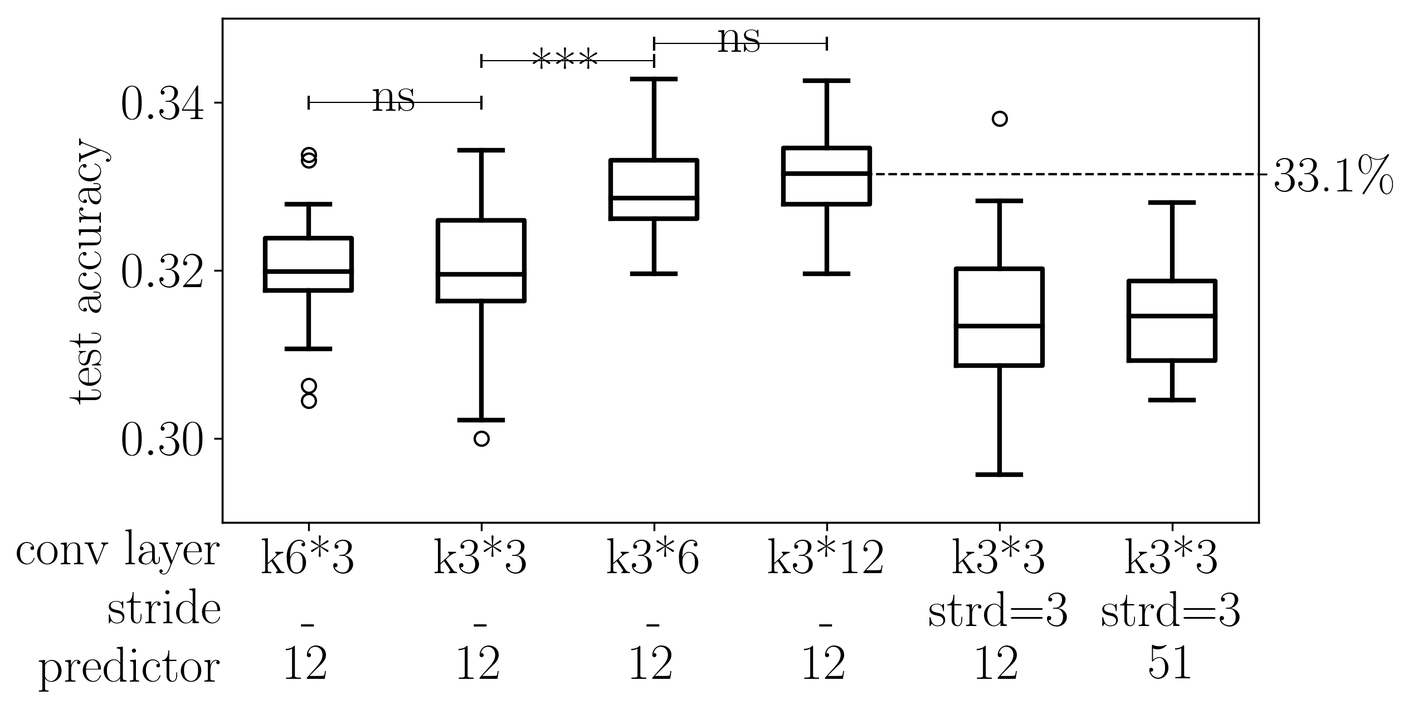
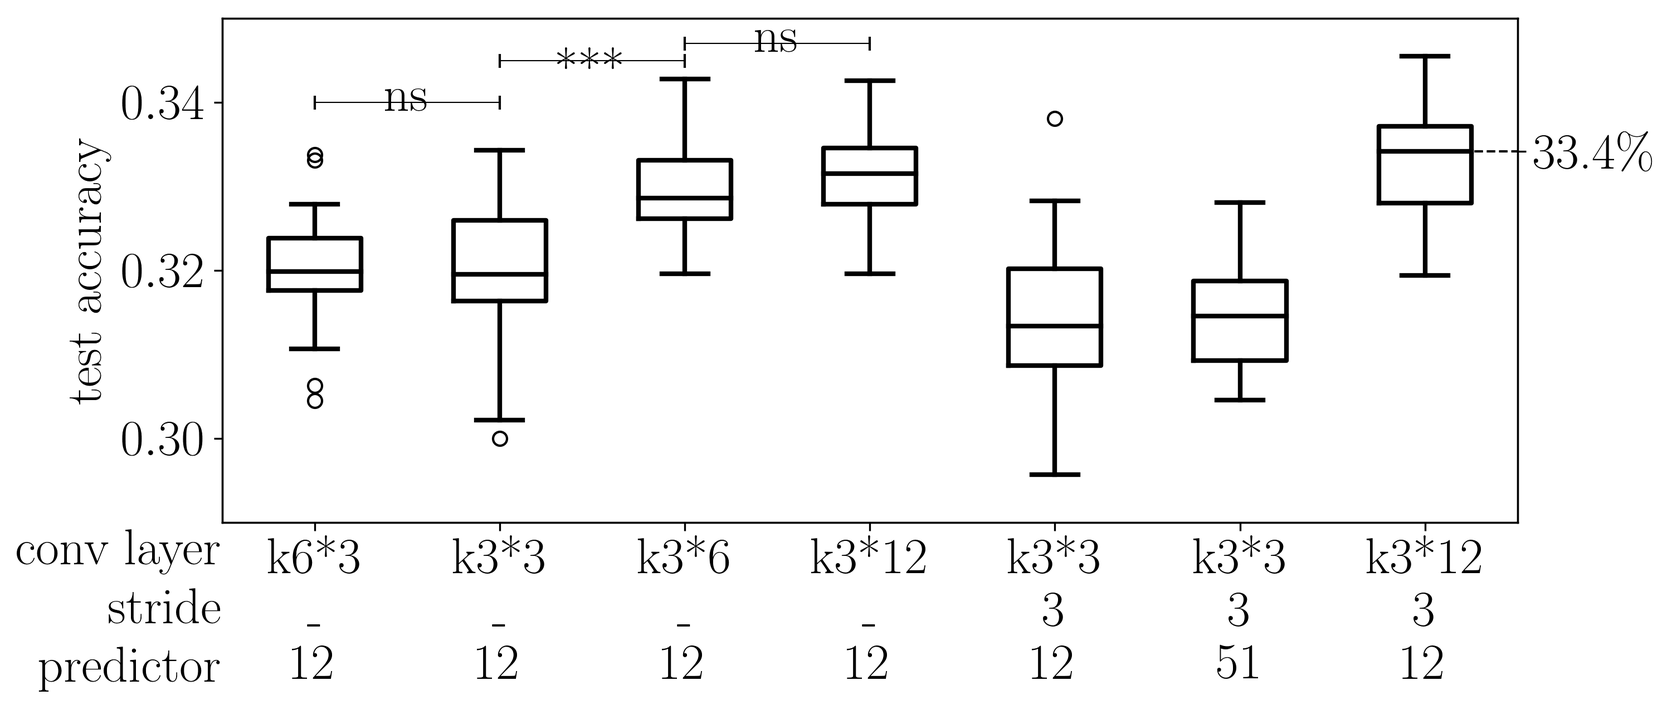
...

diff --git a/methods.tex b/methods.tex
@@ -21,14 +21,18 @@
 
 \subsection{Нейронные сети}
 
-В качестве функции активации использовалась функция softmax и ReLU (уравнение \ref{eq:softmax}).
+В качестве функции активации использовалась функция softmax и ReLU:
 \begin{align} \label{eq:softmax}
 \text{softmax}(X) &= exp(X - \max_{axis}(X)) \\
 \text{ReLU}(X) &= \max_{x_i \in X}(x_i, 0)
 \end{align}
+Также внутри рекуррентных слоев используются функции активации:
+\begin{align}
+	\sigma(X) &= \frac{1}{1+ e^{-X}}  \\
+	tanh(X) &= \frac{e^{X} - e^{-X}}{e^{X} + e^{-X}}
+\end{align}
 
-
-В нашем случае функцией потерь служила категориальная кроссэнтропия
+В нашем случае функцией потерь служила категориальная кроссэнтропия:
 \begin{equation} \label{eq:cross}
 \text{categorical\_crossentropy}(Y_{pred}, Y_{true}) = -\sum_{x}{Y_{pred}(X)\log(Y_{true}(X))}
 \end{equation}
@@ -38,23 +42,43 @@
 
 Для статистического сравнения точности сетей на наборе датасетов использовался критерий Манна-Уитни.
 
-В архитектурах нейронный сетей использовалось несколько типов слоев.
 \paragraph{Полносвязный слой}
-Каждый из k нейронов в полносвязном слое вычисляет сумму результатов поэлементного произведения вектора входных значений на вектор весов, что можно записать как:
+Каждый из j нейронов в полносвязном слое вычисляет сумму результатов поэлементного произведения вектора входных значений на вектор весов, что можно записать как:
 \begin{equation}
-	\text{fully_connected}(X)_{k} = X_{1\times L} \cdot W^k_{L\times 1} = x_1 w^k_1 +  \dots x_L w^k_L 
+	\text{fully_connected}(X)_{j} = X_{1\times L} \cdot W^j_{L\times 1} = x_1 w^j_1 +  \dots x_L w^j_L 
 \end{equation}
-где $L$ -- длина входного вектора, $X_{1\times L}$ -- входной вектор, $W^k_{L\times 1}$ -- вектор весов.
+где $L$ -- длина входного вектора, $X_{1\times L}$ -- входной вектор, $W^j_{L\times 1}$ -- вектор весов.
 
 \paragraph{Сверточный слой}
 
 Для работы с последовательностями была использована одномерная свертка. Слой состоит из нескольких нейронов, каждый со своей весовой матрицей. Каждый нейрон сканирует последовательность вдоль. Под размером нейрона мы понимаем длину скользящего окна. Формально, вычисляется следующее:
 \begin{equation}
-	\text{convolution}(X)_{ik} = \sum_{m=0}^{M-1}\sum_{n=0}^{N-1} W_{mn}^k X_{i+m, n}
+	\text{convolution}(X)_{oj} = \sum_{k=0}^{K-1}\sum_{c=0}^{C-1} W_{kc}^j X_{i+m, c}
 \end{equation}
-где $X$ -- это вход, $i$ -- индекс выходной позиции, $k$ -- номер нейрона в слое. Каждое сверточное ядро это матрица $W^k$ размером $M \times N$, где $M$ размер окна, $N$ число входных каналов (в случае первого слоя это 4, для слоев более высокого порядка число каналов определяется число нейронов в предыдущем слое).
-\paragraph{Рекуррентные слои} В наших архитектурах мы использовали одну вариацию рекуррентного слоя -- слой долгосрочной памяти (LSTM, long short-term memory). 
-  
+где $X$ -- это вход, $o$ -- индекс выходной позиции, $j$ -- номер нейрона в слое. Каждое сверточное ядро это матрица $W^j$ размером $K \times C$, где $K$ размер окна, $C$ число входных каналов (в случае первого слоя это 4, для слоев более высокого порядка число каналов определяется число нейронов в предыдущем слое).
+\paragraph{Рекуррентные слои} В наших архитектурах мы использовали одну вариацию рекуррентного слоя -- слой долгосрочной памяти (LSTM, long short-term memory)\cite{gers_learning_2006}. Схема показаны на рисунке \ref{fig:lstm}. Нейрон LSTM получает входные данные последовательно в каждый момент времени $\tr{x}{t}$. В каждый момент времени также генерируется выход $\tr{h}{t}$. Для генерации выхода также используются предыдущее скрытое состояние $\tr{h}{t-1}$ и предыдущее значение запоминающего состояния $\tr{c}{t-1}$. Внутри нейрона проводится четыре преобразования с разными активациями ($f_t, i_t, \tilde c_t, o_t$), каждое преобразование имеет две свои матрицы весов $W$ и $U$. Результаты этих преобразований комбинируются для получения значения запоминающего $\tr{c}{t}$ и скрытого состояния $\tr{h}{t}$.
+
+
+\begin{figure*}[h]
+	\centering
+	\begin{subfigure}[c]{0.5\textwidth}
+		\input{tables/lstm.tikz}
+	\end{subfigure}	
+	\begin{subfigure}[c]{0.45\textwidth}
+		\begin{align}
+	f_t = \sigma (\tr{x}{t} &\otimes U_f + \tr{h}{t-1} \otimes W_f)\\
+	\tilde c_t = tanh (\tr{x}{t} &\otimes U_c + \tr{h}{t-1} \otimes W_c)\\
+	i_t = \sigma (\tr{x}{t} &\otimes U_i + \tr{h}{t-1} \otimes W_i)\\
+	o_t = \sigma (\tr{x}{t} &\otimes U_o + \tr{h}{t-1} \otimes W_o)\\
+	c_t = f_t &\otimes c_{t-1} + i_t \otimes \tilde c_t \\
+	h_t = o_t &\otimes tanh(c_t)
+	\end{align}
+	\end{subfigure}
+	\caption{{\bfseries LSTM слой.} \\*
+	$\otimes$ - поэлементное умножение, $+$ - поэлементное сложение. }
+	\label{fig:lstm}
+\end{figure*}
+
 \subsubsection{Архитектура нейронных сетей}
 Все нейронные сети были реализованы с помощью библиотек Keras\cite{chollet_keras_2015} , TensorFlow.
 
@@ -68,28 +92,33 @@
 {\bfseries Сверточные модели} (CNN model 1 - рисунок \ref{fig:cnn_schemes}).
 Простейшая сверточная модель состоит из слоя сверточных нейронов (с функцией активации relu), который работает непосредственно с матрицей контекста, далее выход свертки уплощается в вектор и подается в слой из 4 решающих выходных полносвязных нейронов (с функцией активации softmax). Конфигурация сверточного слоя может быть различной. Мы исследовали комбинации из разного числа нейронов, с разным размером фильтра (kernel), которые обрабатывают контекст с различным шагом (stride, по умолчанию шаг сверточного фильтра равен 0).
 
-Были использованы следующие конфигурации сверточного слоя: \begin{enumerate}
-		\item (kernel = 3)*3, три сверточных фильтра размером 3
-		\item (kernel = 6)*3, три сверточных фильтра размером 6
-		\item (kernel = 3)*3 stride = 3, три сверточных фильтра размером 3, которые обрабатывают матрицу с шагом 3.
-	\end{enumerate}
+Варьировали параметры сверточного слоя: 
+\begin{enumerate}[noitemsep,topsep=0pt]
+		\item размер сверточного фильтра $n$, что обозначено как k$n$,
+		\item количество сверточных фильтров $m$, что обозначено как k$n$*$m$,
+		\item шаг применения сверточнго фильтра (stride). 
+			\end{enumerate}
+ 
  
 {\bfseries Рекуррентыне модели } (RNN model 1 - рисунок \ref{fig:rnn_scheme}) Рекуррентная модель состояла из одного LSTM (long short-term memory) слоя, который содержал разное число скрытых состояний, и выходного слоя полносвязных нейронов с функцией активации softmax. 
 
+{\bfseries Модели для двухстороннего контекста} отдельно обрабатывали контекста с каждой стороны, выход конкатенировался и подавался в решающий слой.
+
+Для сверточных моделей с двухсторонним контекстом: каждый контекст обрабатывался в сверточном слое с указанными параметрами, выходные векторы конкатенировались и подавались в решающий слой.
 
 
-\subsection{Deep Image Prior}
+\subsubsection{Deep Image Prior}
 Deep Image Prior --  нейронная сеть с архитектурой автоэнкодера с пробросочными соединениями, подробно описана в \cite{ulyanov_deep_2018}
 
 Данная архитектура была адаптирована для геномной последовательности, закодированной в виде one-hot-encoded матрицы соответственного размера $n\times 4$, где $n$ – длина обрабатываемой геномной области.
 В данной архитектуре двумерные функции свертки, пулинга, нормализации, апсемплинга были заменены на соответствующие одномерные аналоги.
 Суть подхода закллючается в следующем:
 
-\begin{enumerate}
+\begin{enumerate}[noitemsep,topsep=0pt]
 	\item Выбиралась геномная область длиной 500,000 нуклеотидов. Такой размер области позволял наиболее эффективно проводить расчеты.
 	\item На области случайно равномерно выбиралось  10\% нуклеотидов, которые далее предсказывались, которые обозначаются как тест или маска.
 	\item Нейронная сеть обучалась получать из случайно сгенерированного массива чисел целевую геномную последовательность. Функция потерь при этом не учитывала тестовые (маскированные) нуклеотиды.
-	\item Когда функция потерь достигала низких значений, обучение останавливалось. Проверялось, что же предсказывает модель на месте замаскированных нуклеотидов.
+	\item Когда функция потерь переставала уменьшаться, обучение останавливалось. Проверялось, что же предсказывает модель на месте замаскированных нуклеотидов.
 \end{enumerate} 
 
 

diff --git a/literature.tex b/literature.tex
@@ -7,20 +7,19 @@
 
 Искусственные нейронные сети показали себя как мощный инструмент машинного обучения и широко применяются во многих задачах.
 
-{\bfseries DeepBind} -- предсказание связывания белка с последовательностью \cite{alipanahi_predicting_2015}.
+{\bfseries Сверточные нейронные сети} были изначально разработаны для обработки изображений. Они учитывают информацию о пространственном расположении данных -- пикселей в картинке, нуклеотидов в последовательности.
 
+{\bfseries DeepBind} -- предсказание связывания белка с последовательностью \cite{alipanahi_predicting_2015}.
 В подходе DeepBind 927 отдельных моделей (среднее число параметров 1586) применялось для бинарного предсказания \emph{in vivo} и \emph{in vitro} афинностей связывания (то есть связывается или нет) для 538 транскрипционных факторов и 194 РНК-связывающихся белков.
 
 
 {\bfseries DeepSEA} -- предсказание влияния некодирующих вариантов \cite{zhou_predicting_2015}.
  В данной работе рассматривается функциональный эффект вариантов, в том числе однонуклеотидных полиморфизмов (SNP), в контексте геномного окружения. 
-
+ 
 На первой стадии сверточная нейронная сеть используется для предсказания 919 черт профиля хроматина из последовательности ДНК. Извлечение  информации происходит из нуклеотидного контекста размером 1000 пар нуклеотидов. Использовался контекст с обеих сторон, для каждой позиции результирующее предсказание вычислялось комбинацией. Предсказываются профили связывания транскрипционных факторов, сайты гиперчувствительности ДНКазы I, профили гистоновых меток. Далее предсказанная \emph{de novo} информация о хроматине используется в классификаторе на основе логистической регрессии для предсказания функционального эффекта.
-
 Для обучения сети были использованы объединенные данные ENCODE и Roadmap Epigenomics projects. Оказалось, что нейронная сеть превосходит в точности предсказания один из лучших в этой области метод gkm-SVM, основанный на k-мерах \cite{ghandi_enhanced_2014}.
 
 Нейронная сеть состоит из трех сверточных слоев, перемежающихся пулингом, полносвязного слоя и решающего слоя. В некоторых слоях использован dropout -- приравнивание заданной части выходных значений к нулю для избежания переобучения.
-
 Суммарное число параметров модели составляет около 52 миллионов.
 
 
@@ -30,26 +29,26 @@
 
 
 
-Одной из проблем сверточных нейроетей может быть невозможность в неглубокое архитектуре отловить дистантные взаимодействия. Одно из решений dilated convolution (прочитать)
-Basenji – Sequential regulatory activity prediction across chromosomes with convolutional neural networks [github1][github2][biorxiv]
-
-A follow-up project to Basset, this Tensorflow-based model uses both standard and dilated convolutions to model regulatory signals and gene expression (in the form of CAGE tag density) in many different cell types. Notably, the underlying model has been brought into Google's Tensor2Tensor repository (see "github2" link above), which collects many models in image and speech recognition, machine translation, text classification etc. However, at the time of writing the Tensor2Tensor model seems not quite mature for easy use, so it is probably better to use the dedicated Basenji repo ("github1") for now.
-
-рассказать про рекуррентные немного.
+Одной из проблем сверточных нейроетей может быть невозможность в неглубокой архитектуре отловить дистантные взаимодействия. Одно из решений dilated convolution (ПРОЧИТАТЬ)
 
 
-DanQ: гибридная сверточная и рекуррентная глубокая сеть для оценки функции последовательностей  ДНК \cite{quang_danq:_2016}. 
+{\bfseries Basenji} – предсказание регуляторной активности последовательности с помощью сверточный нейронных сетей в разных типах клеток \cite{kelley_sequential_2017}. 
+Продолжение Basset, эта модель использует обычное и dilated свертку для предсказания регуляторного сигнала и экспрессии генов (в форме плотности CAGE-тегов) во многих типах клеточных линий.
+
+
+В {\bfseries рекуррентных нейронных сетях}, точнее в рекуррентных слоях нейронов происходит последовательная передача информации между скрытыми состояниями. Рекуррентный слой прочитывает входную последовательность, а скрытые состояния линейно передаю друг другу информацию.
+Такой поток информации внутри слоя помогает улавливать дальние взаимодействия между мотивами.
+Вычисления в рекуррентных слоях невозможно распараллелить по определению, поэтому такие нейронные сети обучаются очень долго. Тем не менее такие сети используются.
+
+{\bfseries DanQ}: гибридная сверточная и рекуррентная глубокая сеть для оценки функции последовательностей  ДНК \cite{quang_danq:_2016}. 
 Разработана для предсказания функции некодирующих ДНК из их последовательностей. Опирается на те же данные, что и DeepSEA.
-
 Первые слои сети распознают и захватывают паттерны в последовательности -- сверточный слой и пулинг. После этого рекуррентный двунаправленный слой может улавливать далекие взаимодействия, которые обусловлены физическим ограничениями на взаимодействия частей ДНК из-за укладки хроматина. Содержит полносвязный и решающий слои нейронов.
-
 DanQ превосходит DeepSEA по многим метрикам, представленным в статье. В этой нейронной сети впервые представлена архитектура, включающая сверточные и рекуррентные слои.
 
+{\bfseries Механизм внимания}, предложенный два года назад разработчиками из Google, помог значительно улучшить качество машинного перевода \cite{vaswani_attention_2017}. Механизм внимания -- надстройка на рекурретным слоем, позволяющая больше акцентировать важные дистантные взаимодействия слов в предложении. Трансформер -- архитектура нейронной сети, автоэнкодер, в котором был представлен механизм внимания. Трансформер состоит из модулей из сверточных и рекуррентных слоев,
 
-Внимание.
 
-Modeling Enhancer-Promoter Interactions with Attention-Based Neural Networks [bioRxiv preprint][code]
-
-The concept of attention in (recurrent) neural networks has become quite popular recently, not least because it has been used to great effect in machine translation models. This paper proposes an attention-based model for getting at the interactions between enhancer sequences and promoter sequences.
+{\bfseries EPIANN } --  моделирование энхансер-промоторных взаимодействий с использованием механизма внимания \cite{mao_modeling_2017}.
+ОНИ СРАВНИВАЮТ С targetfinder, который использует неправильные данные!!!
 
 

diff --git a/introduction.tex b/introduction.tex
@@ -1,19 +1,17 @@
 \section{Введение}
 
 С появлением первых секвенированных последовательностей генов и геномов появились попытки описать эти последовательности с помощью математических моделей.
-
 Одни из первых моделей опирались на известные тогда вирусные геномы -- стационарная \cite{garden_markov_1980}, нестационарная Марковская модели \cite{tavare_codon_1989}, скрытые Марковский модели \cite{churchill_stochastic_1989}. 
 Давно стало известно, что геномы про- и эукариот неравновесны по вхождениям ди-, три-, тетрануклеотидных последовательностей -- в общем случае k-меров \cite{phillips_mono-_1987}. 
-
 Тем не менее, описать общую структуру генома, не вдаваясь в конкретные последовательности генов и мотивов, до сих пор не удалось.
 
-В настоящее время объем геномных данных огромен. Это не облегчает задачу. Машинное обучение. Классические методы машинного обучения нуждаются в ручном выборе характеристик для обучения. Нейросети придуманы так, что распознавание нужных характеристик встроено в процесс обучения.
+В настоящее время объем геномных данных огромен. Для выявления зависимостей в огромных количествах данных применяют машинное обучение. Классические методы машинного обучения нуждаются в ручном выборе характеристик, которые затем используются для предсказания. Процесс такого выбора в каждой новой задаче должен осуществляться человеком, и не всегда правильные характеристики будут замечены.
 
+Нейронные сети созданы так, что распознавание нужных характеристик встроено в процесс обучения. Это помогает выявлять сложные и комплексные зависимости.
 Взрыву использования нейронных сетей и глубокого обучения способствовал стремительный рост количества данных, появление новых алгоритмов расчетов и существенное увеличение вычислительных мощностей, особенно с использованием графических процессоров (GPU).
 За последние 7 лет использование нейросетей привело к прорывам в областях компьютерного зрения \cite{krizhevsky_imagenet_2012, girshick_region-based_2016, long_fully_2015}, распознавании речи \cite{hannun_deep_2014}, машинного перевода и распознавания естественного языка \cite{wu_googles_2016}.
 
 Первые пионерские исследования в области геномики с применением глубокого обучения были проведены недавно -- буквально 4 года назад. DeepBind позволяет распознавать особенности последовательностей ДНК, связывающих белки и РНК \cite{alipanahi_predicting_2015}. DeepSEA может выучивать регуляторный код  прямо из последовательности ДНК и данных хроматинового профайлинга \cite{zhou_predicting_2015}. 
-
-С этого момента число применений глубокого обучения в биологических задачах растет очень быстро. Даже если рассматривать подходы, связанные с извлечением информации из последовательности, (еще примеры).
+С этого момента число применений глубокого обучения в биологических задачах растет очень быстро.
 
 Но никто не использовал их для предсказания нуклеотидов из контекста? Мотивация контекста. Цель.

diff --git a/litvin.tex b/litvin.tex
@@ -22,7 +22,7 @@
 \setpapersize{A4} %формат бумаги
 \setmarginsrb{20mm}{20mm}{20mm}{20mm}{0pt}{0mm}{0pt}{13mm} %размеры полей: левое, верхнее, правое, нижнее, 3*колонтитулы, расстояние между нижним краем нижней строки и нижним краем номера страницы
 \usepackage{indentfirst} %красная строка для первого абзаца главы или параграфа
-\setlength{\parindent}{0cm} % отступ красной строки
+\setlength{\parindent}{1cm} % отступ красной строки
 \setlength{\parskip}{2mm}
 \sloppy %борьба с залезанием строк на поля путём изменения размеров пробелов
 \pagestyle{plain} %включена нумерация страниц 
@@ -37,7 +37,7 @@
 
 %-------------------TABLES, FIGURES-------------------
 \usepackage{float} %для плавающих картинок и таблиц
-%\usepackage{wrapfig} %для плавающих картинок.
+\usepackage{wrapfig} %для плавающих картинок.
 \usepackage[font=small]{caption}
 \usepackage{booktabs} %отступы в tabular
 \usepackage{colortbl} %раскаршивание таблиц
@@ -72,6 +72,13 @@
 \usetikzlibrary{shapes.geometric,shapes.arrows,decorations.pathmorphing}
 \usetikzlibrary{matrix,chains,scopes,positioning,arrows,fit}
 
+\usetikzlibrary{arrows.meta}
+\usepackage{tikzscale}
+
+% used to avoid putting the same thing several times...
+% Command \empt{var1}{var2}
+\newcommand{\empt}[2]{$#1^{\langle #2 \rangle}$}
+\newcommand{\tr}[2]{#1^{\langle #2 \rangle}}
 
 %-------------------MATH-------------------
 \usepackage{amsmath} %дополнительные средства для вёрстки формул

diff --git a/tables/all_schemes.tex b/tables/all_schemes.tex
@@ -47,13 +47,27 @@
 	(a) Минимальный размер фильтра $3\times4$ был выбран исходя из кодонной структуры б\'{о}льшей кодирующей части генома. \\  (b) Размер фильтра в сверточном слое может быть увеличен до $6\times4$, вследствие чего уменьшается размерность выхода и число параметров модели. \\ (c) Шаг сверточного фильтра может быть увеличен до 3, что может имитировать распознавание кодонной тринуклеотидной структуры кодирующих частей генома.
 	}
 
-	
 	\label{fig:cnn_schemes}	
 \end{figure*}
+%
+%\begin{figure*}[h] % picture
+%	\centering
+%	\begin{subfigure}[t]{0.4\textwidth}
+%		\input{tables/rnn.tex}
+%	\caption{} \label{fig:rnn}
+%	\end{subfigure}
+%	\begin{subfigure}[t]{0.5\textwidth}
+%		\input{tables/lstm.tex}
+%	\caption{} \label{fig:lstm}
+%	\end{subfigure}
+%	\caption{{\bfseries Архитектура рекуррентной модели.} \\* }
+%	\label{fig:rnn_scheme}	
+%\end{figure*}
 
-\begin{figure}[h] % picture
+
+\begin{figure}
 	\centering
 	\input{tables/rnn.tex}
 	\caption{{\bfseries Архитектура рекуррентной модели.} \\* }
-	\label{fig:rnn_scheme}	
+	\label{fig:rnn_scheme}
 \end{figure}

diff --git a/tables/baselines.tex b/tables/baselines.tex
@@ -11,25 +11,6 @@
 	\verythinrule
 	по частоте в предикторной области 24 нуклеотидов & 26.5 & 4\\
 	\verythinrule
-	марковская модель 2 порядка & 30.3 &  4^2 = 16 \\
-	\verythinrule
-	марковская модель 3 порядка & 32.4 &  4^3 = 64\\
-	\verythinrule
-	марковская модель 4 порядка & 33.4 &  4^4 = 256\\
-	\verythinrule
-	марковская модель 5 порядка & 34.0 &  4^5 = 1,024\\
-	\verythinrule
-	марковская модель 6 порядка & 34.4 &  4^6 = 4,096\\
-	\verythinrule
-	марковская модель 7 порядка & 35.0 &  4^7 = 16,384\\
-	\verythinrule
-	марковская модель 8 порядка & 36.0 &  4^8 = 65,536\\
-	\verythinrule
-	марковская модель 9 порядка & 38.9 &  4^9 = 262,144\\
-	\verythinrule
-	марковская модель 10 порядка & 46.2 &  4^{10} = 1,048,576 \\
-	\verythinrule
-	марковская модель 11 порядка & 57.0 &  4^{11} \approx \text{геном }  E.coli  \\
 	
 \end{tabular}
 	

diff --git a/results.tex b/results.tex
@@ -54,6 +54,8 @@
 
 \paragraph{Использование двустроннего контекста.} Для более эффективного предсказания мы протестировали архитектуры сверточных нейронных сетей, которые учитывают контекст с двух сторон от нуклеотида. 
 
+Использование нуклеотидного контекста с двух сторон в сверточных моделях показало наилучшую точность.
+
 \begin{figure}[H] % picture
 	\centering
 	\includegraphics[width = 0.6\textwidth]{pics/cnn_models_two_sided.png}

diff --git a/tables/rnn.tex b/tables/rnn.tex
@@ -8,7 +8,7 @@
 	\draw[line](0, -2) -- (0, -2.5);
 	
 	\oherandom{0}{-2.5}{12}{1}
-	\node (x) at (2.5, -2.5) {hidden states output};
+%	\node (x) at (2.5, -2.5) {hidden states output};
 	
 	\foreach \x in {0, ..., 3}{
 		\draw[line] (\x-1.5, -3) -- (\x-1.5,-3.5);
